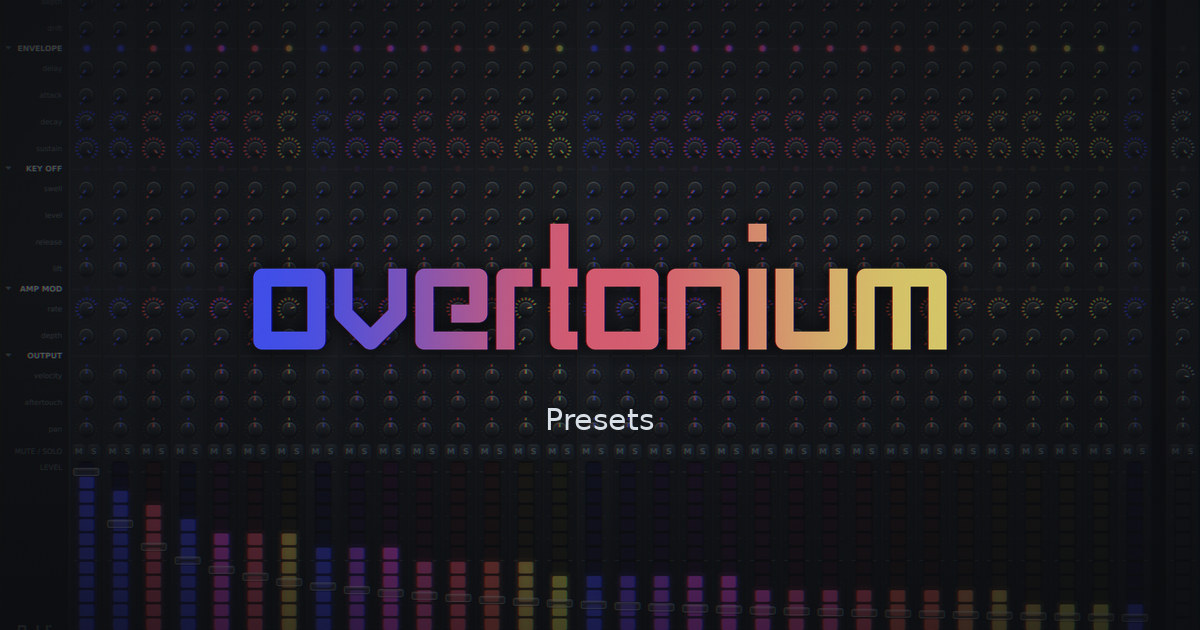
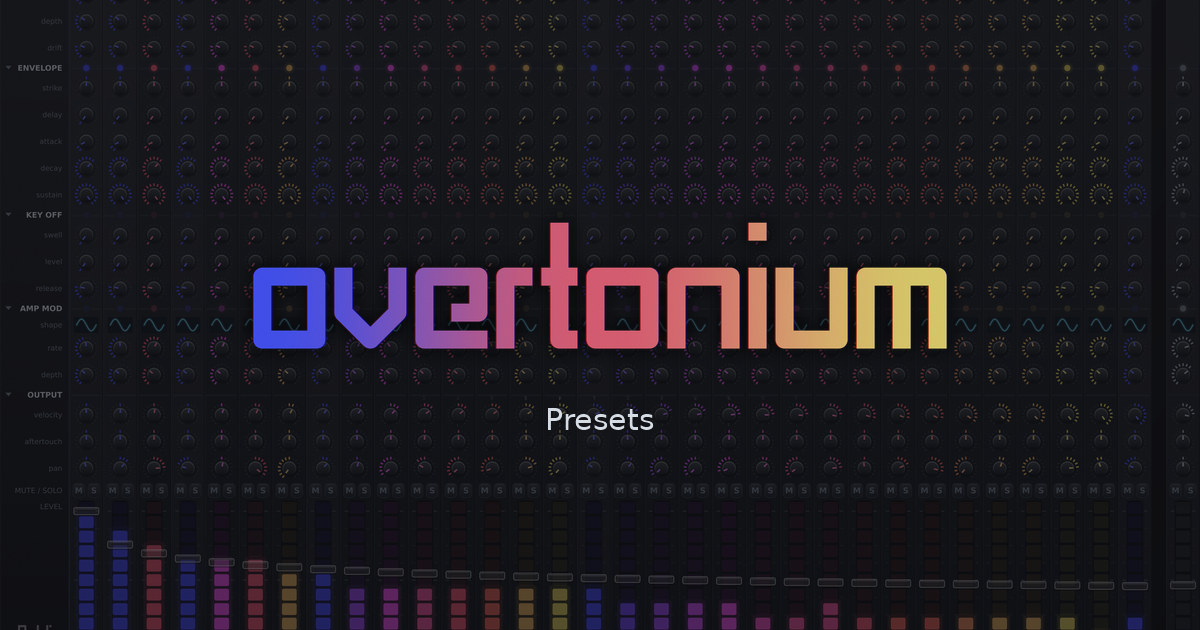
Prepare v1.9.0 release

diff --git a/docs/releases/index.html b/docs/releases/index.html
@@ -90,6 +90,51 @@
                 </p>
 
                 <section>
+                    <h2>1.9.0, 21 September 2026</h2>
+
+                    <p>
+                        <strong>Which oscillator the partials are.</strong> A new control at the head of the series group, offering six of them. All
+                        six are sine oscillators, and what differs is the way each circuit fails to make one. <em>Pure</em> is the sine every partial
+                        already was. <em>Bulb</em> is a Wien bridge whose lamp lags, so the level sags behind every move of the pitch and recovers
+                        over about half a second. <em>Squashed</em> leans on its own rails, <em>Folded</em> is bent into shape by two diodes that do
+                        not match, and <em>Valve</em> is a triode with an octave on top of every partial. <em>Slewed</em> is an amplifier that cannot
+                        keep up, so the top of the series hardens as it climbs while the bottom stays where it was. Each one is also a rack of
+                        thirty-two rather than one oscillator used thirty-two times: a fixed spread of a few cents and a fraction of a decibel, the
+                        same every time you load the patch. It is part of the patch, so a preset carries it, and every factory preset is Pure.
+                    </p>
+
+                    <p>
+                        <strong>A MIDI program change loads a factory preset</strong>, by its position in the alphabetical Factory list counting from
+                        zero, so a keyboard, a foot controller or a clip can change the sound without anyone touching the menu. A number past the last
+                        preset is ignored rather than wrapping.
+                    </p>
+
+                    <p>
+                        <strong>The converter readouts say what they are counting</strong>, reading <code>48.0 kHz</code> and <code>8 bit</code> where
+                        they used to have room for the figure alone. LINK moved to the top of the caption column on the left to make that room, over
+                        the rows it gangs, and with it gone the bar fits on one row at the width the window opens at. Every switch on the panel now
+                        lights its word rather than its face, the standalone wears the instrument's own title bar instead of the grey-green one every
+                        unstyled JUCE application gets, and Settings has an entry that puts a window dragged narrow back to the width that shows all
+                        32 channels.
+                    </p>
+
+                    <p>
+                        <strong>Undo took a step several times a second while you were still turning a knob</strong>, which was most obvious with a
+                        scroll wheel. A gesture is one step now, however many values it moved and however long it went on, and a gesture that ends
+                        where it began is not a step at all. A host playing an automation lane used to fill the history as well, and no longer leaves
+                        any: the history holds what a person did.
+                    </p>
+
+                    <p>
+                        <strong>Before upgrading.</strong> Patches, presets and sessions load and sound exactly as they did. One parameter was added,
+                        782 in all, and it went on the end, so every automation lane written before this release still points at the control it was
+                        pointing at. Character defaults to Pure, which is the oscillator every partial already was.
+                    </p>
+
+                    <p class="more"><a href="https://github.com/benjamindehli/overtonium/releases/tag/v1.9.0">The full notes for 1.9.0</a></p>
+                </section>
+
+                <section>
                     <h2>1.8.0, 19 September 2026</h2>
 
                     <p>

diff --git a/docs/index.html b/docs/index.html
@@ -59,8 +59,8 @@
                 "downloadUrl": "https://benjamindehli.github.io/overtonium/install/#downloads",
                 "installUrl": "https://benjamindehli.github.io/overtonium/install/#downloads",
                 "programmingLanguage": "C++",
-                "softwareVersion": "1.8.0",
-                "datePublished": "2026-09-19",
+                "softwareVersion": "1.9.0",
+                "datePublished": "2026-09-21",
                 "offers": {
                     "@type": "Offer",
                     "price": 0,

diff --git a/docs/install/index.html b/docs/install/index.html
@@ -55,8 +55,8 @@
                 "installUrl": "https://benjamindehli.github.io/overtonium/install/#downloads",
                 "codeRepository": "https://github.com/benjamindehli/overtonium",
                 "programmingLanguage": "C++",
-                "softwareVersion": "1.8.0",
-                "datePublished": "2026-09-19",
+                "softwareVersion": "1.9.0",
+                "datePublished": "2026-09-21",
                 "offers": {
                     "@type": "Offer",
                     "price": 0,

diff --git a/Tools/compose_cards.py b/Tools/compose_cards.py
@@ -1,0 +1,145 @@
+"""Composes the five social cards from the layered artwork.
+
+The cards are the `og:image` files, so nothing but a link preview ever loads
+them and nothing on the site would look wrong if they went stale. They have,
+twice. This is here so that regenerating them is one command rather than an
+afternoon of measuring the old ones.
+
+It needs the masters, which are not in the repository: `background.png` and
+`text.png` are hand-composed artwork rather than anything a build can
+produce, and `caption-*.png` are the four captions, lifted off the cards as
+they stood in 1.8.0 because they were set in a face this machine has not got.
+All of them live beside each other outside the tree. Point ART at them.
+
+Needs Pillow and NumPy. Run it from anywhere:
+
+    python3 Tools/compose_cards.py            # writes the five cards
+    python3 Tools/compose_cards.py --check d  # against the set in d
+"""
+
+import os
+import sys
+
+import numpy as np
+from PIL import Image
+
+REPO = os.path.dirname(os.path.dirname(os.path.abspath(__file__)))
+ART = os.path.join(REPO, "temp", "overtonium-4x")
+
+# What every card renderer expects, and the only shape any of them is asked
+# for.
+W, H = 1200, 630
+
+# The page cards lay this over the background so a caption can be read on it.
+# Measured as a linear fit of a page card against the front card, over the
+# three quarters of the frame that neither the wordmark nor the caption is
+# on: it reproduces one from the other to within the JPEG's own noise, which
+# no other model of what was done to them did.
+DIM_ALPHA = 0.63
+DIM_COLOUR = np.array([15.0, 15.0, 19.0])
+
+# The wordmark canvas, seven tenths of the card on the front one and a little
+# under two thirds on the rest. The glyphs stop at 93% of that canvas and the
+# remainder is the glow baked into the file, which is why a mark that looks
+# centred is placed by its canvas rather than by what you can see of it.
+FRONT_MARK_W = 840
+PAGE_MARK_W = 744
+
+# Far enough up on a page card to leave the caption somewhere to sit.
+FRONT_MARK_Y = 214
+PAGE_MARK_Y = 197
+
+# The site's --text, which is what the captions were set in.
+CAPTION_COLOUR = np.array([217.0, 223.0, 231.0])
+
+PAGES = ["controls", "tuning", "presets", "install"]
+
+
+def background(master):
+    """The master, full width, centre cropped to the card's shape."""
+    im = Image.open(master).convert("RGB")
+    h = round(im.height * W / im.width)
+    top = (h - H) // 2
+
+    return np.asarray(
+        im.resize((W, h), Image.LANCZOS).crop((0, top, W, top + H)),
+        dtype=np.float64)
+
+
+def dim(bg):
+    return (1.0 - DIM_ALPHA) * bg + DIM_ALPHA * DIM_COLOUR
+
+
+def with_mark(bg, width, y):
+    mark = Image.open(os.path.join(ART, "text.png")).convert("RGBA")
+    height = round(mark.height * width / mark.width)
+
+    m = np.asarray(mark.resize((width, height), Image.LANCZOS),
+                   dtype=np.float64) / 255.0
+
+    x = (W - width) // 2
+    a = m[:, :, 3:4]
+
+    out = bg.copy()
+    under = out[y:y + height, x:x + width]
+    out[y:y + height, x:x + width] = under * (1.0 - a) + m[:, :, :3] * 255.0 * a
+
+    return out
+
+
+def with_caption(bg, matte):
+    a = matte[:, :, None]
+
+    return bg * (1.0 - a) + CAPTION_COLOUR * a
+
+
+def build(master):
+    """The five cards, by the name each one is written under."""
+    bg = background(master)
+
+    cards = {"overtonium-card.jpg": with_mark(bg, FRONT_MARK_W, FRONT_MARK_Y)}
+
+    for slug in PAGES:
+        matte = np.asarray(
+            Image.open(os.path.join(ART, "caption-%s.png" % slug)),
+            dtype=np.float64) / 255.0
+
+        cards["overtonium-card-%s.jpg" % slug] = with_caption(
+            with_mark(dim(bg), PAGE_MARK_W, PAGE_MARK_Y), matte)
+
+    return cards
+
+
+def save(arr, path):
+    """Writes a card with the tables the card it replaces was written with, so
+    nothing about the encoding changes but the picture."""
+    old = Image.open(path)
+    old.load()
+
+    Image.fromarray(np.clip(arr + 0.5, 0, 255).astype(np.uint8)).save(
+        path, qtables=old.quantization, subsampling=0, optimize=True)
+
+
+def difference(arr, path):
+    b = np.asarray(Image.open(path).convert("RGB"), dtype=np.float64)
+
+    return np.abs(arr - b).mean()
+
+
+if __name__ == "__main__":
+    # Every number above was recovered by composing the cards as they stood
+    # from the master they were made from and comparing. All five came back
+    # between 2.6 and 2.9 of 255, which is the JPEG's own noise rather than a
+    # difference anybody could see. Hand a directory of those cards to
+    # --check to run that again after changing any of it.
+    if "--check" in sys.argv:
+        was = sys.argv[sys.argv.index("--check") + 1]
+
+        for name, arr in build(os.path.join(ART, "background.png")).items():
+            print("  %-32s %.2f" % (name, difference(arr, os.path.join(was, name))))
+
+        sys.exit(0)
+
+    for name, arr in build(os.path.join(ART, "background-current-cropped.png")).items():
+        save(arr, os.path.join(REPO, "docs", name))
+        print("wrote", name)

diff --git a/CONTRIBUTING.md b/CONTRIBUTING.md
@@ -256,6 +256,8 @@ The pages load WebP, encoded losslessly, which is a third smaller than the PNG f
 
 One file is the exception and says so here rather than quietly. `overtonium-674.webp` is the narrow half of the window shot's `srcset`, produced by resampling the render down to 674 across, so there is no original for it to be identical to and lossless buys nothing: it costs 156 KB where quality 80 costs 63. Quality barely moves the result either, since what lossy mangles is the grain and it mangles it at every setting. Between 75 and 90 the mean error only falls from 4.5 to 3.2 of 255 while the file doubles, so 80 is where it sits. Everything else on the pages is lossless. Some images in `docs/` are never loaded by a browser at all. They are the `og:image` files, and they avoid WebP because social card renderers cannot be relied on to read it. `overtonium.png` and `overtonium-strips.png` are the screenshots the inner pages point at, so regenerating a screenshot means writing the PNG as well as the WebP. `overtonium-card.jpg` is the front page's card, composed at the 1200x630 every renderer expects, and it is a JPEG because the graded background is grainy enough that the PNG of it runs four times the size for no visible gain.
 
+**The cards are composed rather than rendered**, and `Tools/compose_cards.py` composes all five: the window shot at full width, centre cropped to the frame, the wordmark over it at seven tenths of the width, and on the four page cards a dim over the background and a caption under the mark. It needs masters that are not in the repository. The background and the mark are hand-composed artwork rather than anything a build can produce, and the four captions are set in a face that lives on the machine they were made on, so they are kept as alpha mattes lifted off the 1.8.0 cards and stored beside the other two. Every number in that script was measured off the cards it replaces rather than chosen, and `--check` composes the old set again from the old background to show it: all five come back within 2.9 of 255, which is the JPEG's own noise rather than anything anyone could see. That check is why the recipe is written down at all. It had to be recovered from the pictures once already.
+
 The front page hero is layered rather than flattened. The window shot is a background that `object-fit: cover` crops to the frame, and the wordmark is a separate image with an alpha channel centred over it. Because the stylesheet sizes the mark as a share of the frame, the background can be cropped to any band without the crop ever reaching the name, and the mark can take a larger share of the width on a phone than on a desktop. Flattening the two would give up both.
 
 The stylesheet takes its palette from `Source/UI/Theme.h`, so the page and the instrument stay the same colour. One value deliberately does not. The instrument's dim text is `#6f7a86`, which measures 4.45 against the page background and 4.08 against a panel, either side of the 4.5 that WCAG AA asks for at this size, and it is the colour behind the nav, the fact labels, the captions and the footer. The page lifts it to `#838d97`, which clears the bar on every surface it lands on. Changing it in `Theme.h` instead would drag the instrument's own captions with it and put the hero artwork, which is hand-composed from a render, out of step with the plugin.
